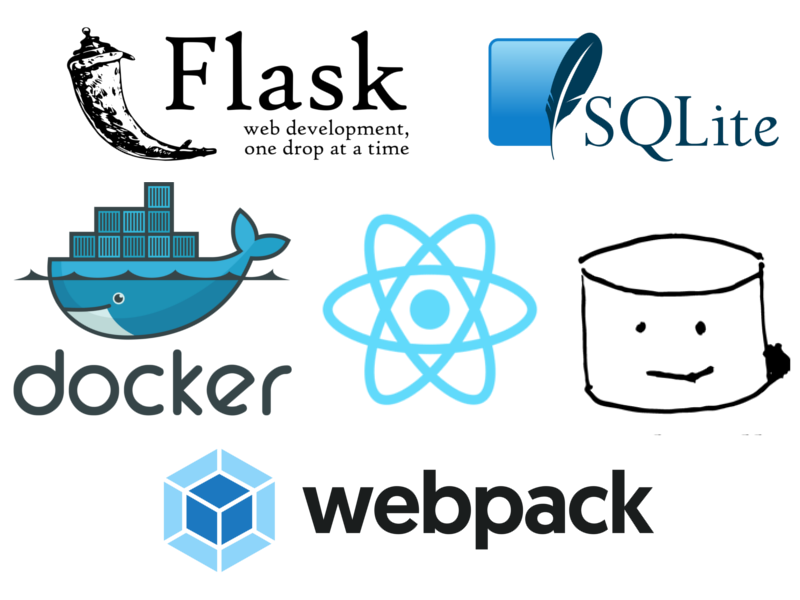
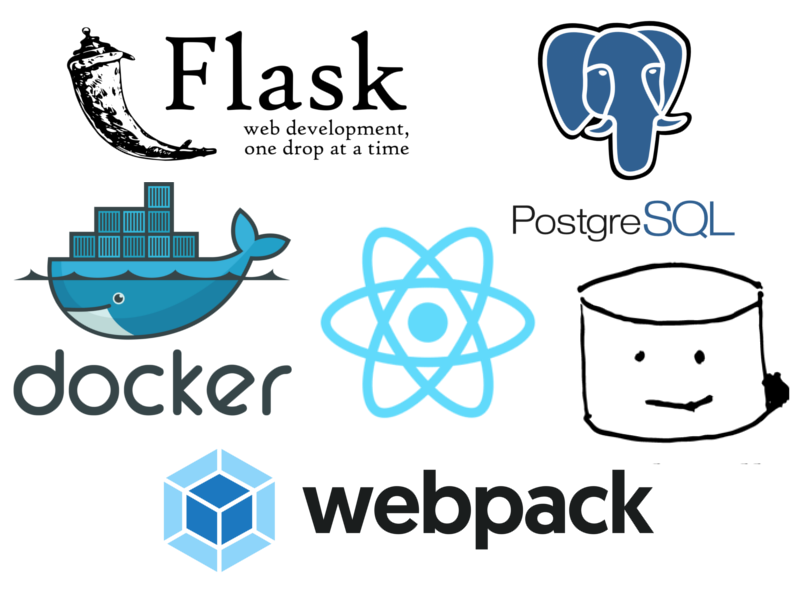
Update 400 error codes and readme

Changed region(s): [[0.375, 0.33, 1.0, 0.75], [0.5938, 0.03, 0.9688, 0.3]]

diff --git a/manage.py b/manage.py
@@ -1,5 +1,4 @@
 from termcolor import colored
-
 import click
 
 from app.core import db
@@ -20,7 +19,7 @@ def initdb():
 @click.confirmation_option(
     prompt='This will erase everything in the database. Do you want to continue?')
 def dropdb():
-    """ Delete the SQL database. """
+    """ Drop the SQL database. """
     db.drop_all()
     print(colored('The SQL database has been deleted', 'green'))
 
@@ -29,7 +28,7 @@ def dropdb():
 @click.confirmation_option(
     prompt='This will remove the current database and fill it with test data. Do you want to continue?')
 def refreshdb():
-    """ Fill db with test data. """
+    """ Drop then reinitialize the database """
     db.drop_all()
     db.create_all()
     print(colored('The SQL database has been recreated!', 'green'))

diff --git a/app/views/main.py b/app/views/main.py
@@ -32,14 +32,14 @@ def calculate():
             return jsonify({'error': e}), 500
         final_result, errors = ResultListSchema().dump(result)
         if errors:
-            return jsonify(errors)
+            return jsonify(errors), 400
         return jsonify(final_result)
     else:
         results = ResultList.query.all()
         results_obj = AllResults(results)
         all_results, error = AllResultsListSchema().dump(results_obj)
         if error:
-            return jsonify(error)
+            return jsonify(error), 400
         return jsonify(all_results)
 
 

diff --git a/README.md b/README.md
@@ -1,8 +1,8 @@
 # Compute Cross Product SPA
 
-##### This application uses a React SPA front-end served by webpack-dev-server. The back-end is powered by Flask and sqlite3.
+##### This application uses a React SPA front-end served by webpack-dev-server. The back-end is powered by Flask and PostgreSQL.
 
-![](app/static/img/Technologies.png)
+![The tech](app/static/img/Technologies.png)
 
 # Directions
 ### *For Docker CE both applications run on and can be accessed at `0.0.0.0:<port>`, if using Docker-Machine, they will run on the IP provided when running `docker-machine ip <machine_name>`*
@@ -45,7 +45,7 @@
     
     `npm install`
     
-- Run the webpack-dev-server locally (*This runs the server on `127.0.0.1:8080`, but will show as `0.0.0.0:8080` on Windows (on Linux it may very well run on `0.0.0.0:8080`)*)
+- Run the webpack-dev-server locally (*This runs the server on `127.0.0.1:8080`, but will show as `0.0.0.0:8080` on Windows and on Linux it WILL run on `0.0.0.0:8080`*)
 
     `npm run start-local`
 
@@ -71,6 +71,20 @@ $ sudo docker-compose run --rm web flask initdb
 ```
 
 ### If using `docker-machine` you must then access the IP address given by `docker-machine ip <machine_name>` directly from your machine along with the appropriate port to access a given service.
+
+<br>
+
+# Flask CLI Commands
+
+#### `flask initdb`
+- Initialize the database
+#### `flask dropdb`
+- Drop the database
+#### `flask refreshdb`
+- Drop then reinitialize the database
+
+*All database data is persisted through volumes*
+
 
 ## License
 
